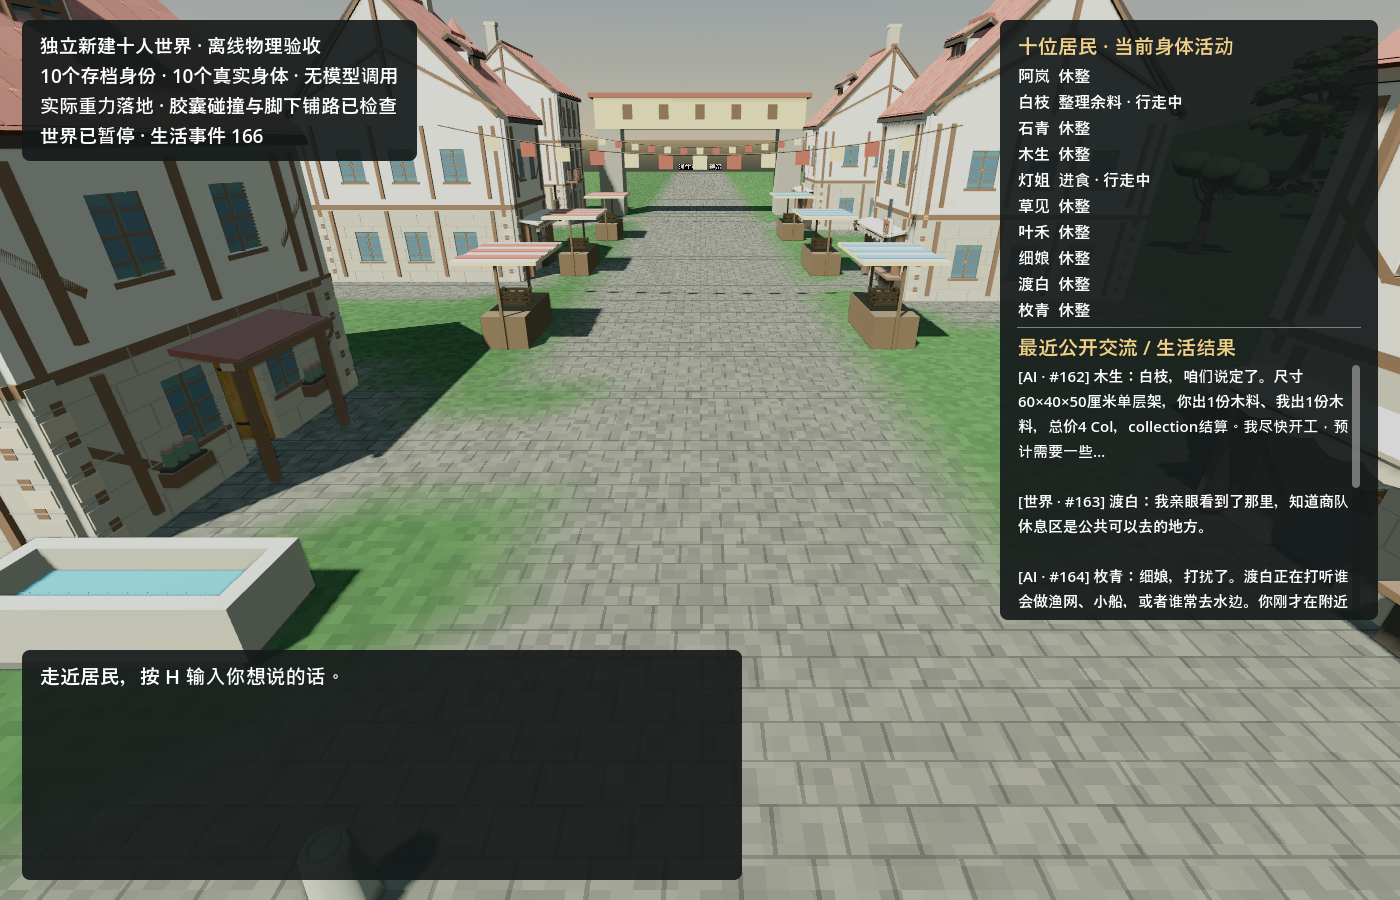
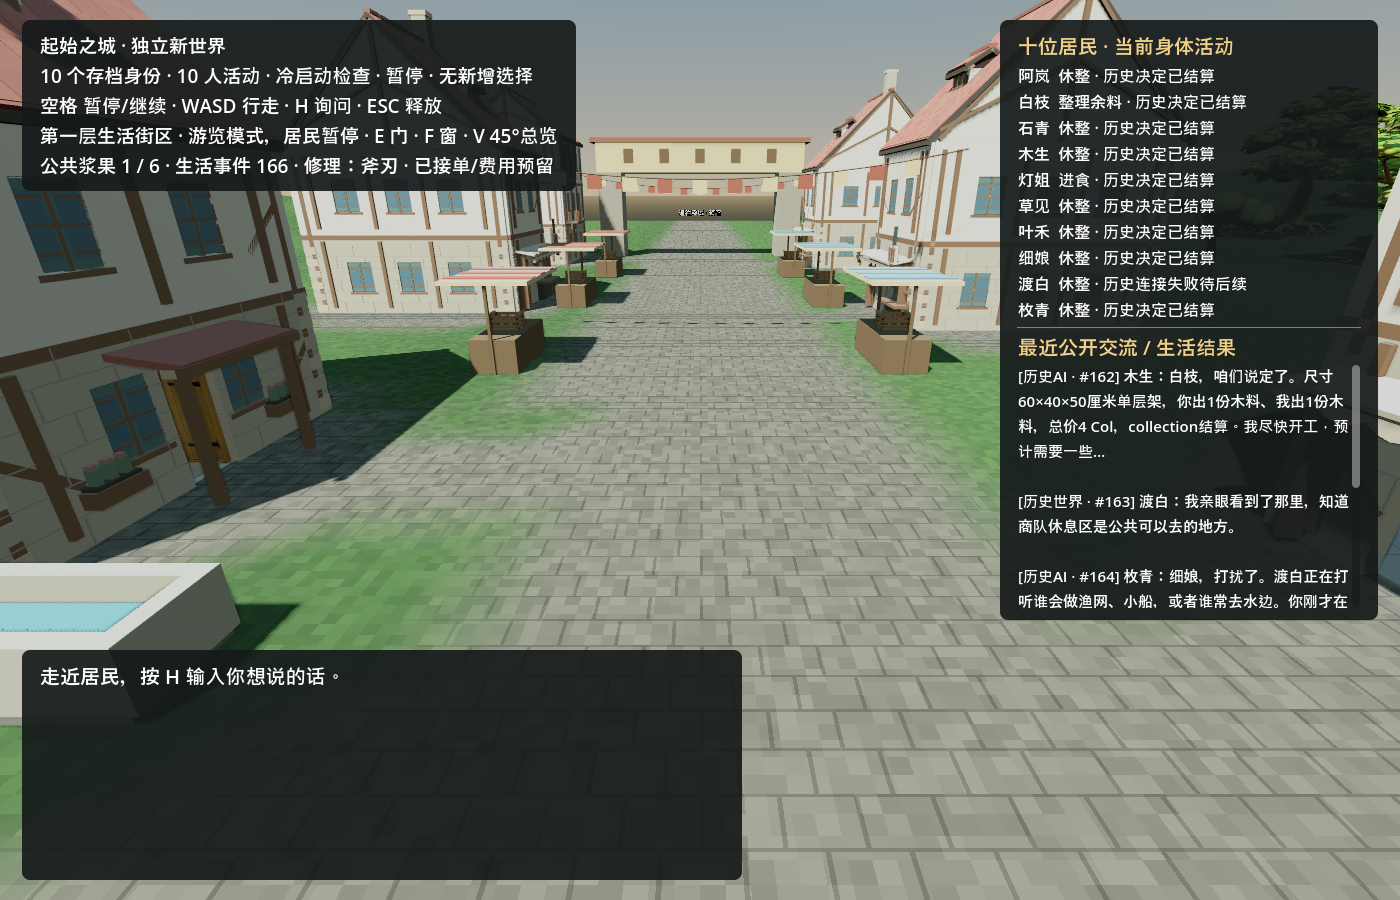
Make living world launch modes explicit

diff --git a/docs/validation/night-20260918-sol-life.md b/docs/validation/night-20260918-sol-life.md
@@ -4,37 +4,39 @@
 
 `StartLiving.cmd` 现在明确把用户带入 `res://scenes/town_street.tscn`，不再需要记住 `Run-Street.ps1 -Town`，也不会误入项目默认的单居民 `street_trial.tscn` 或 `StartDemo.cmd` 的暂停美术预览。
 
-无付费本地观察必须使用原档的**副本**。这个入口会写入传入的存档；不应把研究原档直接传给它：
+无付费本地观察必须使用原档的**副本**，并显式给 `-ObserveOnly`。此模式以 `--town-restore` 打开十个身体，模型暂停、不会接纳新决定；不应把研究原档直接传给它：
 
 ```powershell
 .\StartLiving.cmd `
+  -ObserveOnly `
   -Godot D:\lucidgloves\InfiniteAincrad\tmp\toolchain\Godot_v4.7.2-stable_mono_win64\Godot_v4.7.2-stable_mono_win64.exe `
   -SkipBuild `
   -SavePath D:\path\to\disposable-world-copy.json
 ```
 
-该命令是明确标注的 `local_rule_policy` 无模型观察，不应被描述为 AI 自主生活。真实模型共同世界仍由已有的有界启动器统一建立 loopback gateway、预算授权和退出排空，然后把同一 `town_street.tscn` 传入 `--town-gateway`：
+该命令是暂停模型的身体观察，不应被描述为 AI 自主生活。真实模型共同世界由同一个入口接受账本、授权配置、存档和输出目录，再调用已有的有界启动器建立 loopback gateway、预算授权和退出排空。它不带 `--headless`，现场窗口可见：
 
 ```powershell
-python -X utf8 tools/run_town_model_validation.py `
-  --godot D:\lucidgloves\InfiniteAincrad\tmp\toolchain\Godot_v4.7.2-stable_mono_win64\Godot_v4.7.2-stable_mono_win64.exe `
-  --ledger D:\path\to\existing-ledger.json `
-  --config D:\path\to\authorized-config.json `
-  --save D:\lucidgloves\InfiniteAincrad\tmp\overnight-20260918\delivery\private\night-delivery\delivery-live\world.json `
-  --out D:\lucidgloves\InfiniteAincrad\tmp\overnight-20260918\delivery\private\night-delivery\live-run-01 `
-  --seconds 300 --max-requests 12 --concurrency 1 `
-  --gm-export D:\lucidgloves\InfiniteAincrad\tmp\overnight-20260918\delivery\private\night-delivery\live-run-01\gm\world.json
+.\StartLiving.cmd `
+  -Godot D:\lucidgloves\InfiniteAincrad\tmp\toolchain\Godot_v4.7.2-stable_mono_win64\Godot_v4.7.2-stable_mono_win64.exe `
+  -SkipBuild `
+  -SavePath D:\lucidgloves\InfiniteAincrad\tmp\overnight-20260918\delivery\private\night-delivery\delivery-live\world.json `
+  -Ledger D:\path\to\existing-ledger.json `
+  -Config D:\path\to\authorized-config.json `
+  -Out D:\lucidgloves\InfiniteAincrad\tmp\overnight-20260918\delivery\private\night-delivery\live-run-01 `
+  -Seconds 300 -MaxRequests 12 -Concurrency 1 `
+  -GmExport D:\lucidgloves\InfiniteAincrad\tmp\overnight-20260918\delivery\private\night-delivery\live-run-01\gm\world.json
 ```
 
-这条真实路径的关键场景参数是 `res://scenes/town_street.tscn -- --town-save=<same-world> --town-gateway`。没有预算配置、既有账本和授权时，不启动模型；本次首轮验证产生 0 个模型调用。
+这条真实路径的关键场景参数仍是 `res://scenes/town_street.tscn -- --town-save=<same-world> --town-gateway`。`Ledger / Config / Out` 缺任意一项都会报错且什么也不启动；也不会暗中退回脚本生活。既没有完整 live 三件套、也没有显式 `-ObserveOnly` 时同样拒绝启动。本次首轮验证产生 0 个模型调用。
 
 ## 玩家实际能看到什么
 
 右侧新增一个只读生活窗口：
 
 - 十位居民全部具名列出，逐人显示当前世界工作；身体有水平速度时显示“行走中”。
-- gateway／恢复模式显示每个人自己的 durable resident-turn 状态，不把一个公共模型状态冒充十个人。
-- 最近五条公开交流或生活结果来自 `life.events`；只有 `source=opengameagent_live` 才标为 `AI`。界面不生成文本、不选择动作、不展示私有理由。
+- gateway／恢复模式显示每个人自己的 durable resident-turn 状态，并用启动时的 request id 区分“历史决定”和“本次决定”，不把一个公共模型状态冒充十个人。
+- 最近五条公开交流或生活结果来自 `life.events`；只有 `source=opengameagent_live` 才标为 AI，并按启动时的 life seq 明示“历史 AI”或“本次 AI”。界面不生成文本、不选择动作、不展示私有理由。
 - 原有近身姓名牌、真实身体动画、公开对话框、玩家 `H` 询问、门窗和俯瞰仍在同一个世界中。
 
 ![生活现场 HUD：十人活动与公开交流](night-20260918-sol-life/living-world-hud.png)
